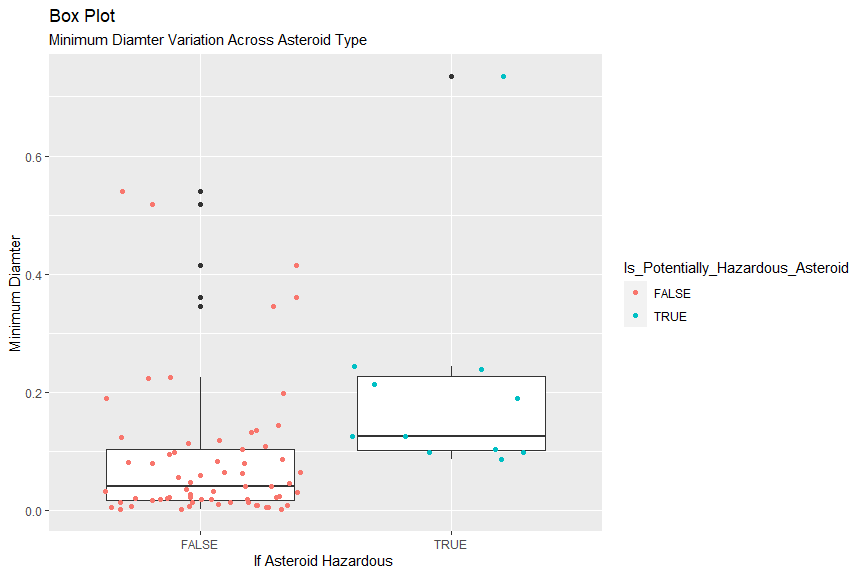
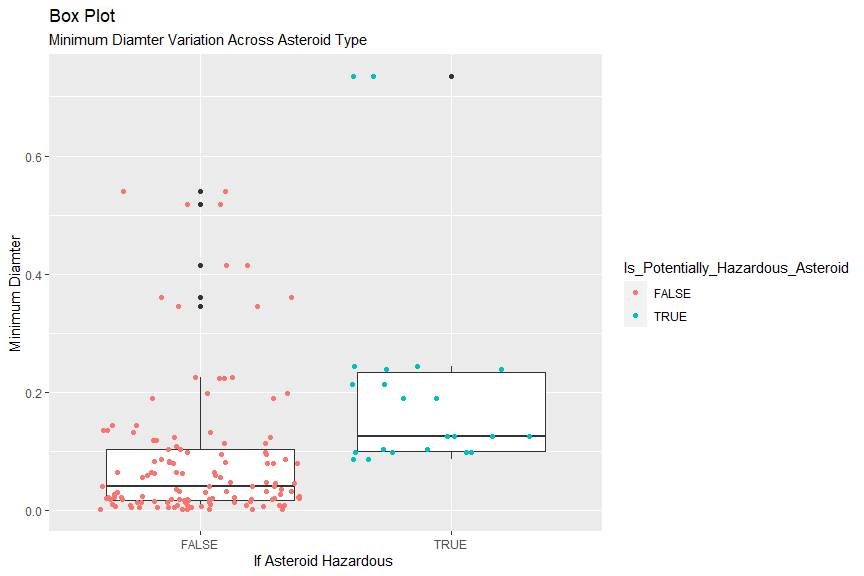
Final commit

Changed region(s): [[0.0938, 0.75, 0.3438, 0.9062], [0.4062, 0.7812, 0.625, 0.8125], [0.4375, 0.625, 0.625, 0.6562]]

diff --git a/ST558_Project_2_Main_File.md b/ST558_Project_2_Main_File.md
@@ -2,36 +2,25 @@ ST558 Project 2 - NASA APIs
 ================
 Shyam Gadhwala & Kamlesh Pandey
 
--   <a href="#introduction-and-required-libraries"
-    id="toc-introduction-and-required-libraries">Introduction and required
-    libraries</a>
--   <a href="#asteroid---neows" id="toc-asteroid---neows">Asteroid -
-    NeoWs</a>
-    -   <a href="#asteroid---neows-api" id="toc-asteroid---neows-api">Asteroid -
-        NeoWs API</a>
-    -   <a href="#helper-function-to-get-the-asteroid-neows-data"
-        id="toc-helper-function-to-get-the-asteroid-neows-data">Helper function
-        to get the Asteroid NeoWs data:</a>
--   <a href="#coronal-mass-ejection-cme-analysis"
-    id="toc-coronal-mass-ejection-cme-analysis">Coronal Mass Ejection (CME)
-    Analysis</a>
-    -   <a href="#coronal-mass-ejection-cme-analysis-api"
-        id="toc-coronal-mass-ejection-cme-analysis-api">Coronal Mass Ejection
-        (CME) Analysis API:</a>
-    -   <a href="#helper-function-to-get-the-cme-data"
-        id="toc-helper-function-to-get-the-cme-data">Helper function to get the
-        CME data:</a>
--   <a href="#parent-wrapper-function"
-    id="toc-parent-wrapper-function">Parent Wrapper Function</a>
--   <a href="#exploratory-data-analysis-for-asteroid---neows-api-data"
-    id="toc-exploratory-data-analysis-for-asteroid---neows-api-data">Exploratory
-    Data Analysis for Asteroid - NeoWs API Data</a>
--   <a
-    href="#exploratory-data-analysis-eda-of-coronal-mass-ejection-cme-analysis-api-data"
-    id="toc-exploratory-data-analysis-eda-of-coronal-mass-ejection-cme-analysis-api-data">Exploratory
-    Data Analysis (EDA) of Coronal Mass Ejection (CME) Analysis API
-    Data.</a>
--   <a href="#ending-remarks" id="toc-ending-remarks">Ending Remarks</a>
+-   [Introduction and required
+    libraries](#introduction-and-required-libraries)
+-   [Asteroid - NeoWs](#asteroid---neows)
+    -   [Asteroid - NeoWs API](#asteroid---neows-api)
+    -   [Helper function to get the Asteroid NeoWs
+        data:](#helper-function-to-get-the-asteroid-neows-data)
+-   [Coronal Mass Ejection (CME)
+    Analysis](#coronal-mass-ejection-cme-analysis)
+    -   [Coronal Mass Ejection (CME) Analysis
+        API:](#coronal-mass-ejection-cme-analysis-api)
+    -   [Helper function to get the CME
+        data:](#helper-function-to-get-the-cme-data)
+-   [Parent Wrapper Function](#parent-wrapper-function)
+-   [Exploratory Data Analysis for Asteroid - NeoWs API
+    Data](#exploratory-data-analysis-for-asteroid---neows-api-data)
+-   [Exploratory Data Analysis (EDA) of Coronal Mass Ejection (CME)
+    Analysis API
+    Data.](#exploratory-data-analysis-eda-of-coronal-mass-ejection-cme-analysis-api-data)
+-   [Ending Remarks](#ending-remarks)
 
 # Introduction and required libraries
 
@@ -53,7 +42,7 @@ customized to the demand of modern web APIs.
 to provide flexibility in mapping json and R data  
 [lubridate](https://lubridate.tidyverse.org/) to manipulate date and
 time  
-[ggplot](https://ggplot2.tidyverse.org/) used for creating graphics  
+[ggplot2](https://ggplot2.tidyverse.org/) used for creating graphics  
 [tidyverse](https://www.tidyverse.org/) for data analysis purpose
 
 ``` r
@@ -414,25 +403,26 @@ and is showed below. I have also called the summary function to get an
 overview of numerical feature columns.
 
 ``` r
-astDf <- apiSelection(api = "Asteroids - NeoWs", '2017-01-01', '2017-08-01')$data
+# first API call
+astDf <- apiSelection(api = "Asteroids - NeoWs", '2019-01-10', '2019-08-10')$data
 
-summary(astDf %>% select(Magnitude:Miss_Distance))
+# second API call
+astDf1 <- apiSelection(api = "Asteroids - NeoWs", '2017-01-01', '2017-08-01')$data
+
+# Merging results from both API call
+astDf <- rbind(astDf, astDf1)
+
+knitr::kable(summary(astDf %>% select(Magnitude:Miss_Distance, -Approach_Date)))
 ```
 
-    ##    Magnitude     Minimum_Diameter   Maximum_Diameter  Relative_Velocity
-    ##  Min.   :16.76   Min.   :0.001896   Min.   :0.00424   Min.   :  7037   
-    ##  1st Qu.:20.62   1st Qu.:0.019429   1st Qu.:0.04344   1st Qu.: 35301   
-    ##  Median :22.15   Median :0.061379   Median :0.13725   Median : 49976   
-    ##  Mean   :22.65   Mean   :0.103730   Mean   :0.23195   Mean   : 52996   
-    ##  3rd Qu.:24.65   3rd Qu.:0.123998   3rd Qu.:0.27727   3rd Qu.: 67034   
-    ##  Max.   :29.70   Max.   :0.734355   Max.   :1.64207   Max.   :123714   
-    ##  Approach_Date      Miss_Distance     
-    ##  Length:76          Min.   :0.003582  
-    ##  Class :character   1st Qu.:0.186202  
-    ##  Mode  :character   Median :0.291632  
-    ##                     Mean   :0.283531  
-    ##                     3rd Qu.:0.386678  
-    ##                     Max.   :0.498633
+|     | Magnitude     | Minimum_Diameter | Maximum_Diameter | Relative_Velocity | Miss_Distance    |
+|:----|:--------------|:-----------------|:-----------------|:------------------|:-----------------|
+|     | Min. :16.76   | Min. :0.001896   | Min. :0.00424    | Min. : 7037       | Min. :0.003582   |
+|     | 1st Qu.:20.62 | 1st Qu.:0.019429 | 1st Qu.:0.04344  | 1st Qu.: 35301    | 1st Qu.:0.186202 |
+|     | Median :22.15 | Median :0.061379 | Median :0.13725  | Median : 49976    | Median :0.291632 |
+|     | Mean :22.65   | Mean :0.103730   | Mean :0.23195    | Mean : 52996      | Mean :0.283531   |
+|     | 3rd Qu.:24.65 | 3rd Qu.:0.123998 | 3rd Qu.:0.27727  | 3rd Qu.: 67034    | 3rd Qu.:0.386678 |
+|     | Max. :29.70   | Max. :0.734355   | Max. :1.64207    | Max. :123714      | Max. :0.498633   |
 
 ``` r
 # EDA on Asteroid data
@@ -447,7 +437,7 @@ plot1 + geom_point(aes(color = Is_Potentially_Hazardous_Asteroid, size = Maximum
       subtitle = "Miss Distance For Date Range")
 ```
 
-![](ST558_Project_2_Main_FIle_files/figure-gfm/unnamed-chunk-3-1.png)<!-- -->
+![](ST558_Project_2_Main_File_files/figure-gfm/unnamed-chunk-3-1.png)<!-- -->
 In the scatter plot, I have tried to visualize the count for Miss
 Distance for a give n date range with diameter as a size and if that
 particular asteroid is hazardous or not. Few key finding from the
@@ -471,14 +461,14 @@ plot2 +
        subtitle = "Minimum Diamter Variation Across Asteroid Type ")
 ```
 
-![](ST558_Project_2_Main_FIle_files/figure-gfm/unnamed-chunk-4-1.png)<!-- -->
+![](ST558_Project_2_Main_File_files/figure-gfm/unnamed-chunk-4-1.png)<!-- -->
 
 The dark line in box plot represent the median and the top box is 75
 %ile and bottom box is 25 %ile. The end points of the black line are
 whiskers and they are at a distance of 1.5\*IQR. In this plot we can
 visualize that the median diameter of potentially hazardous asteroid is
 higher than the non hazardous asteroid. From the plot, we can also
-visualize few extreme points (\>1.5IQR).
+visualize few extreme points (>1.5IQR).
 
 ``` r
 numericalDf <- astDf[, c(1,2,3,4,6)]
@@ -495,7 +485,7 @@ corrplot(corr, hc.order = TRUE,
          )
 ```
 
-![](ST558_Project_2_Main_FIle_files/figure-gfm/unnamed-chunk-5-1.png)<!-- -->
+![](ST558_Project_2_Main_File_files/figure-gfm/unnamed-chunk-5-1.png)<!-- -->
 
 Correlation plot gives the relation among parameters, i.e is there any
 increase or decrease in a parameter directly affecting other parameter.
@@ -524,7 +514,7 @@ plot3 + geom_bar(stat = 'count', position = position_dodge()) +
         labs(title = "Facet Plot for Relative Velocity Count ")
 ```
 
-![](ST558_Project_2_Main_FIle_files/figure-gfm/unnamed-chunk-6-1.png)<!-- -->
+![](ST558_Project_2_Main_File_files/figure-gfm/unnamed-chunk-6-1.png)<!-- -->
 
 # Exploratory Data Analysis (EDA) of Coronal Mass Ejection (CME) Analysis API Data.
 
@@ -540,15 +530,18 @@ will be used further here in the project. I have printed the summary of
 the data to get a generalized overview.
 
 ``` r
+# First API call
 cmeSampleData <- apiSelection("Coronal Mass Ejection (CME) Analysis", "2015-01-01", "2016-06-30")$data
+# Second API call
 cmeSampleData2 <- apiSelection("Coronal Mass Ejection (CME) Analysis", "2017-01-01", "2019-12-31")$data
 
+# Merging data from both API
 cmeSampleData <- rbind(cmeSampleData, cmeSampleData2)
 
 print(cmeSampleData)
 ```
 
-    ## # A tibble: 942 × 6
+    ## # A tibble: 942 x 6
     ##    time              latitude longitude halfAngle speed type 
     ##    <chr>                <dbl>     <dbl>     <dbl> <dbl> <chr>
     ##  1 2015-01-01T23:14Z       31        26        32   350 S    
@@ -561,7 +554,7 @@ print(cmeSampleData)
     ##  8 2015-01-10T21:22Z        7       -90        15   260 S    
     ##  9 2015-01-11T16:15Z       59      -100        30   200 S    
     ## 10 2015-01-12T07:18Z       72       -90        15   250 S    
-    ## # … with 932 more rows
+    ## # ... with 932 more rows
 
 ``` r
 knitr::kable(summary(cmeSampleData %>% select(halfAngle, speed, latitude, longitude)))
@@ -598,7 +591,7 @@ show(ggplot(cmeSampleData, aes(x=latitude, y=longitude)) +
         x ="Latitude", y = "Longitude"))
 ```
 
-![](ST558_Project_2_Main_FIle_files/figure-gfm/unnamed-chunk-7-1.png)<!-- -->
+![](ST558_Project_2_Main_File_files/figure-gfm/unnamed-chunk-7-1.png)<!-- -->
 
 From the graph, we can see that the CME events are scattered throughout
 the sun’s surface depicted by latitude and longitude values. Majority of
@@ -620,7 +613,7 @@ ggplot(cmeSampleData, aes(x=latitude, y=longitude)) +
         x ="Latitude", y = "Longitude")
 ```
 
-![](ST558_Project_2_Main_FIle_files/figure-gfm/inital_plot-1.png)<!-- -->
+![](ST558_Project_2_Main_File_files/figure-gfm/inital_plot-1.png)<!-- -->
 
 To gain more insights about the data, I have segregated the speed,
 location, and half angle from the data.  
@@ -659,20 +652,20 @@ cmeSampleData <- cmeSampleData %>%
 cmeSampleData
 ```
 
-    ## # A tibble: 942 × 9
-    ##    time              latitude longitude halfA…¹ speed type  speedC zone  halfA…²
-    ##    <chr>                <dbl>     <dbl>   <dbl> <dbl> <fct> <fct>  <fct> <fct>  
-    ##  1 2015-01-01T23:14Z       31        26      32   350 S     Slow … Nort… medium 
-    ##  2 2015-01-02T23:55Z        3        34      23   353 S     Slow … Nort… low    
-    ##  3 2015-01-03T23:40Z      -49       -82      42   210 S     Slow … Sout… medium 
-    ##  4 2015-01-07T00:25Z        9        39      12   532 C     Mediu… Nort… low    
-    ##  5 2015-01-08T03:10Z       67      -102      20   579 C     Mediu… Sout… low    
-    ##  6 2015-01-09T05:54Z      -10         2      13   265 S     Slow … Nort… low    
-    ##  7 2015-01-10T07:45Z      -19        31      16   510 C     Mediu… Nort… low    
-    ##  8 2015-01-10T21:22Z        7       -90      15   260 S     Slow … Sout… low    
-    ##  9 2015-01-11T16:15Z       59      -100      30   200 S     Slow … Sout… medium 
-    ## 10 2015-01-12T07:18Z       72       -90      15   250 S     Slow … Sout… low    
-    ## # … with 932 more rows, and abbreviated variable names ¹halfAngle, ²halfAngleC
+    ## # A tibble: 942 x 9
+    ##    time      latitude longitude halfAngle speed type  speedC   zone   halfAngleC
+    ##    <chr>        <dbl>     <dbl>     <dbl> <dbl> <fct> <fct>    <fct>  <fct>     
+    ##  1 2015-01-~       31        26        32   350 S     Slow Pa~ North~ medium    
+    ##  2 2015-01-~        3        34        23   353 S     Slow Pa~ North~ low       
+    ##  3 2015-01-~      -49       -82        42   210 S     Slow Pa~ South~ medium    
+    ##  4 2015-01-~        9        39        12   532 C     Medium ~ North~ low       
+    ##  5 2015-01-~       67      -102        20   579 C     Medium ~ South~ low       
+    ##  6 2015-01-~      -10         2        13   265 S     Slow Pa~ North~ low       
+    ##  7 2015-01-~      -19        31        16   510 C     Medium ~ North~ low       
+    ##  8 2015-01-~        7       -90        15   260 S     Slow Pa~ South~ low       
+    ##  9 2015-01-~       59      -100        30   200 S     Slow Pa~ South~ medium    
+    ## 10 2015-01-~       72       -90        15   250 S     Slow Pa~ South~ low       
+    ## # ... with 932 more rows
 
 Then from the data, I have grouped the data by combining zone, speed and
 type of event, and for each group, I have calculated the number of
@@ -687,7 +680,7 @@ cmeSampleData %>%
             sdHalfAngle = sd(halfAngle), count = n()) %>% arrange(zone, speedC)
 ```
 
-    ## # A tibble: 13 × 8
+    ## # A tibble: 13 x 8
     ## # Groups:   zone, speedC [13]
     ##    zone       speedC       type  avgSpeed sdSpeed avgHalfAngle sdHalfAngle count
     ##    <fct>      <fct>        <fct>    <dbl>   <dbl>        <dbl>       <dbl> <int>
@@ -806,7 +799,7 @@ ggplot(cmeSampleData, aes(x=latitude, y=longitude)) +
         x ="Latitude", y = "Longitude")
 ```
 
-![](ST558_Project_2_Main_FIle_files/figure-gfm/cme_con_tbls-1.png)<!-- -->
+![](ST558_Project_2_Main_File_files/figure-gfm/cme_con_tbls-1.png)<!-- -->
 
 From the plot above, we can see the statistics of each zone. It seems
 that most CME events took place in the North-East region (249 events),
@@ -832,7 +825,7 @@ ggplot(cmeSampleData, aes(x=halfAngle, y=speed)) +
   annotate(geom="text", x=10, y=2000, label=paste0("Correlation between \nSpeed and Half angle = ", round(cor, 3)))
 ```
 
-![](ST558_Project_2_Main_FIle_files/figure-gfm/cor-1.png)<!-- -->
+![](ST558_Project_2_Main_File_files/figure-gfm/cor-1.png)<!-- -->
 
 The initial speculations were true since the speed and half angle do
 show a positive correlation between them.
@@ -849,7 +842,7 @@ ggplot(cmeSampleData, aes(x = type)) +
         x ="Type", y = "Count of CME events")
 ```
 
-![](ST558_Project_2_Main_FIle_files/figure-gfm/barplot-1.png)<!-- -->
+![](ST558_Project_2_Main_File_files/figure-gfm/barplot-1.png)<!-- -->
 
 From the plot it seems that in most of the regions, the CME events
 occurred with a low half angle. In some of the zones, some types of
@@ -902,7 +895,7 @@ ggplot(cmeSampleData %>% group_by(month) %>% mutate(count = n()), aes(x=month))+
         x ="Month", y = "Count of CME events")
 ```
 
-![](ST558_Project_2_Main_FIle_files/figure-gfm/hist-1.png)<!-- --> The
+![](ST558_Project_2_Main_File_files/figure-gfm/hist-1.png)<!-- --> The
 above plot suggests that CME events peaked in April every year, and then
 decreased till December, and again on a rise till April. This also might
 lead to the fact that Earth experiences most heat in months from April
@@ -916,7 +909,7 @@ ggplot(cmeSampleData %>% group_by(numyear) %>% mutate(count = n()), aes(x=numyea
         x ="Year", y = "Count of CME events")
 ```
 
-![](ST558_Project_2_Main_FIle_files/figure-gfm/hist_year-1.png)<!-- -->
+![](ST558_Project_2_Main_File_files/figure-gfm/hist_year-1.png)<!-- -->
 
 The plot above shows that most CME events took place in the year of 2015
 (\~450), while least CME events took place in the year of 2018 (\~50).
